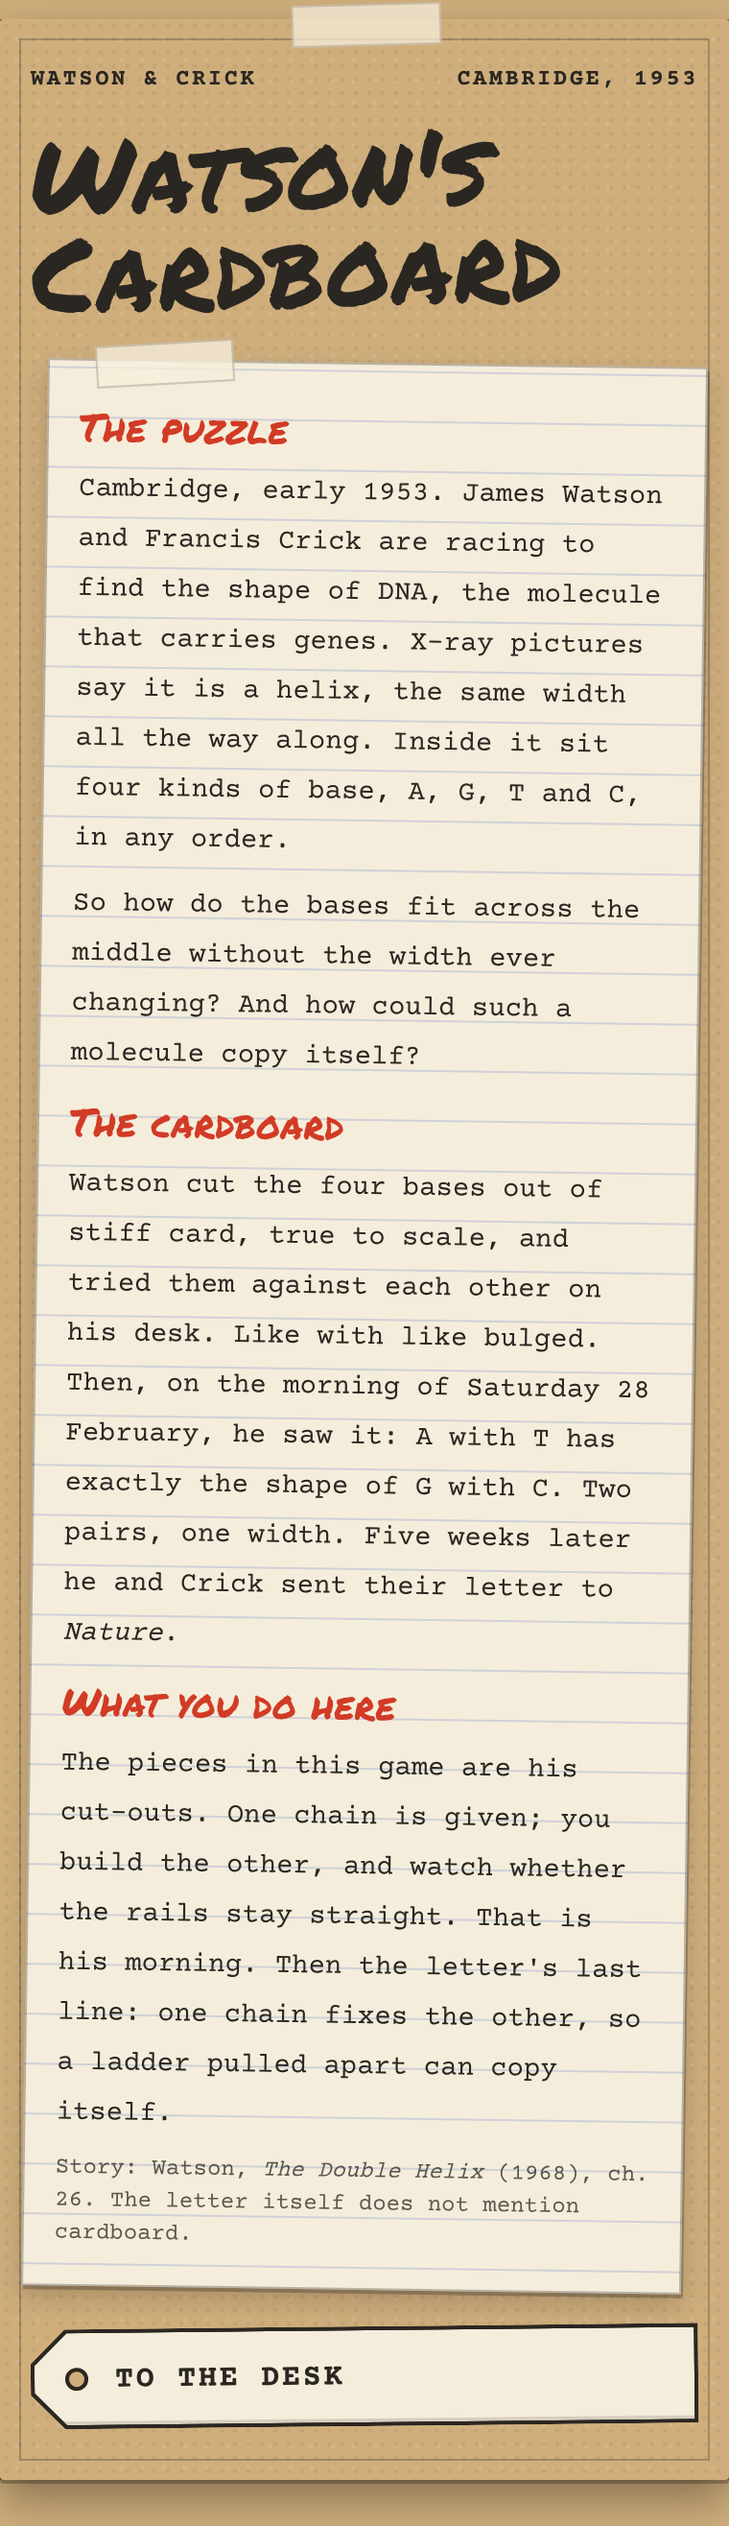
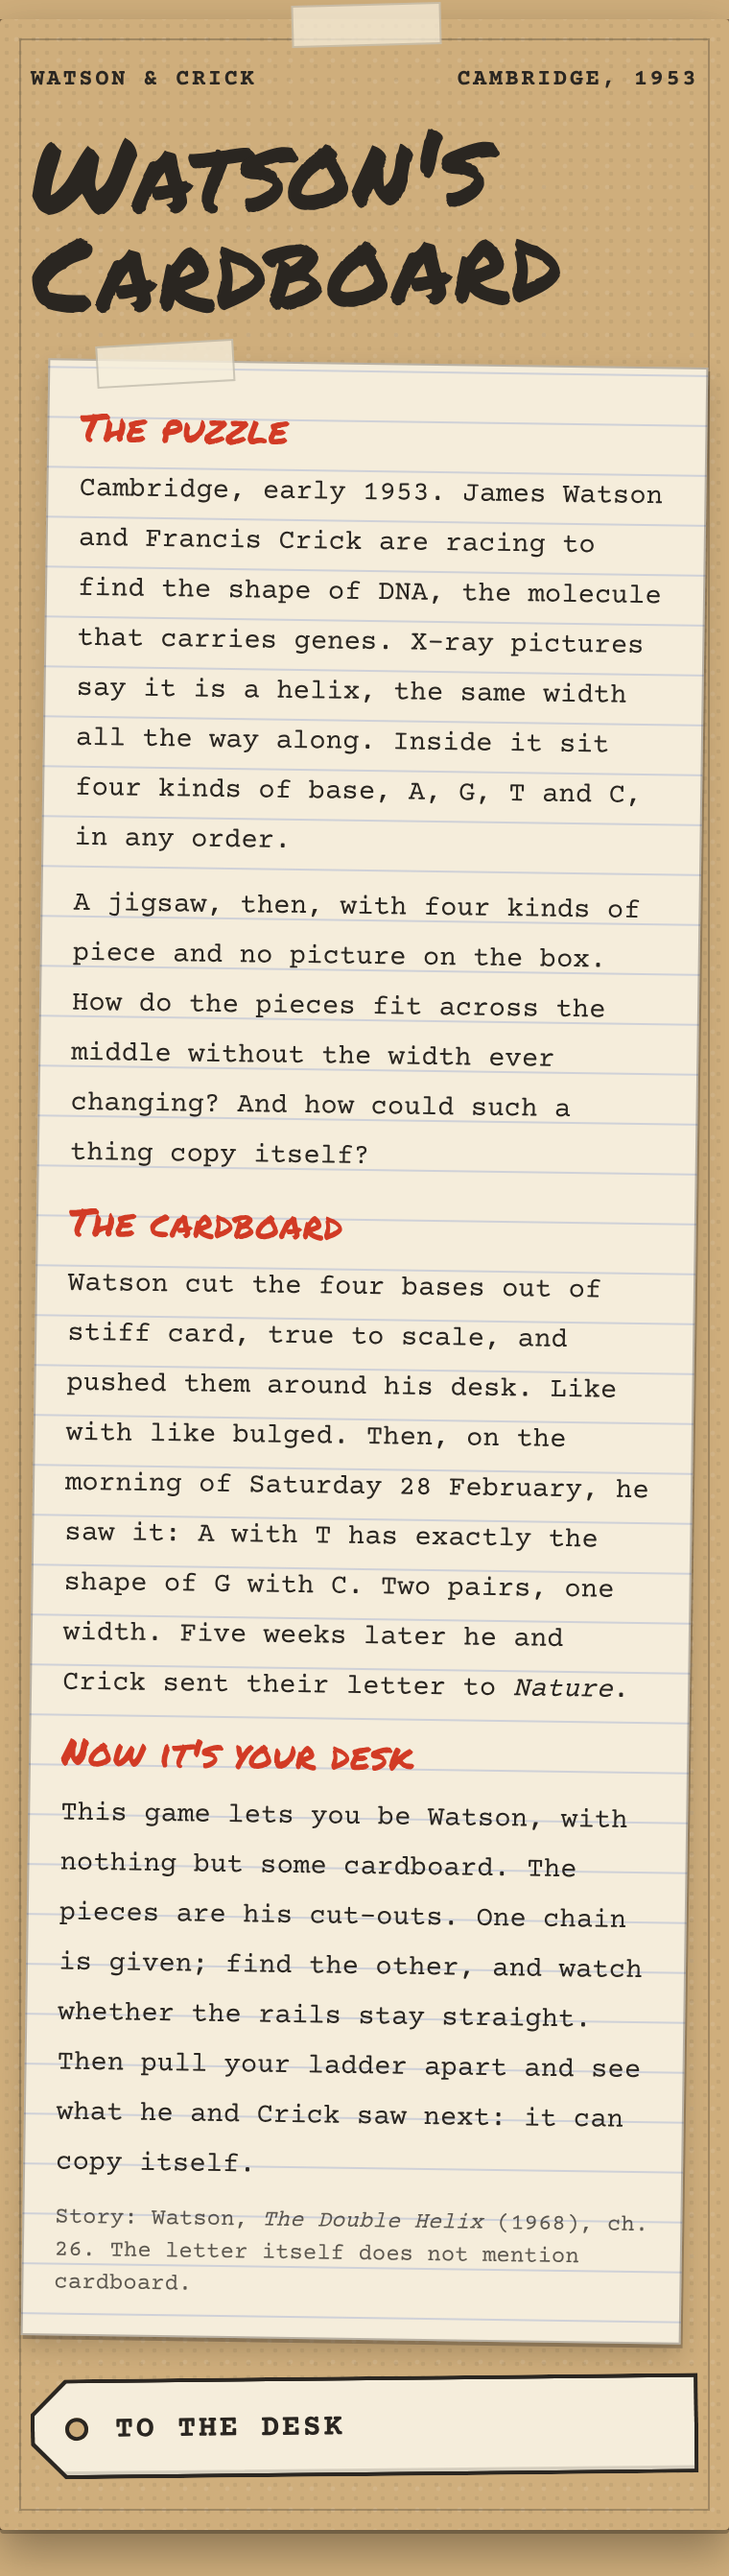
Watson's Cardboard: the welcome card as a jigsaw, and now it's your desk
Claude-Session: https://claude.ai/code/session_018niUhx9jvreD1GNLSnz6uQ

Changed region(s): [[0.0303, 0.0312, 0.9684, 0.9658], [0.8474, 0.8412, 0.8776, 0.8723]]

diff --git a/dna/template.html b/dna/template.html
@@ -151,11 +151,11 @@ svg.lad { display: block; width: 100%; height: auto; touch-action: manipulation;
     <div class="story">
       <h3>The puzzle</h3>
       <p>Cambridge, early 1953. James Watson and Francis Crick are racing to find the shape of DNA, the molecule that carries genes. X-ray pictures say it is a helix, the same width all the way along. Inside it sit four kinds of base, A, G, T and C, in any order.</p>
-      <p>So how do the bases fit across the middle without the width ever changing? And how could such a molecule copy itself?</p>
+      <p>A jigsaw, then, with four kinds of piece and no picture on the box. How do the pieces fit across the middle without the width ever changing? And how could such a thing copy itself?</p>
       <h3>The cardboard</h3>
-      <p>Watson cut the four bases out of stiff card, true to scale, and tried them against each other on his desk. Like with like bulged. Then, on the morning of Saturday 28 February, he saw it: A with T has exactly the shape of G with C. Two pairs, one width. Five weeks later he and Crick sent their letter to <i>Nature</i>.</p>
-      <h3>What you do here</h3>
-      <p>The pieces in this game are his cut-outs. One chain is given; you build the other, and watch whether the rails stay straight. That is his morning. Then the letter's last line: one chain fixes the other, so a ladder pulled apart can copy itself.</p>
+      <p>Watson cut the four bases out of stiff card, true to scale, and pushed them around his desk. Like with like bulged. Then, on the morning of Saturday 28 February, he saw it: A with T has exactly the shape of G with C. Two pairs, one width. Five weeks later he and Crick sent their letter to <i>Nature</i>.</p>
+      <h3>Now it's your desk</h3>
+      <p>This game lets you be Watson, with nothing but some cardboard. The pieces are his cut-outs. One chain is given; find the other, and watch whether the rails stay straight. Then pull your ladder apart and see what he and Crick saw next: it can copy itself.</p>
       <p class="src">Story: Watson, <i>The Double Helix</i> (1968), ch. 26. The letter itself does not mention cardboard.</p>
     </div>
     <button class="tag" id="b-desk"><span>To the desk</span></button>

diff --git a/dna/watsons-cardboard.html b/dna/watsons-cardboard.html
@@ -151,11 +151,11 @@ svg.lad { display: block; width: 100%; height: auto; touch-action: manipulation;
     <div class="story">
       <h3>The puzzle</h3>
       <p>Cambridge, early 1953. James Watson and Francis Crick are racing to find the shape of DNA, the molecule that carries genes. X-ray pictures say it is a helix, the same width all the way along. Inside it sit four kinds of base, A, G, T and C, in any order.</p>
-      <p>So how do the bases fit across the middle without the width ever changing? And how could such a molecule copy itself?</p>
+      <p>A jigsaw, then, with four kinds of piece and no picture on the box. How do the pieces fit across the middle without the width ever changing? And how could such a thing copy itself?</p>
       <h3>The cardboard</h3>
-      <p>Watson cut the four bases out of stiff card, true to scale, and tried them against each other on his desk. Like with like bulged. Then, on the morning of Saturday 28 February, he saw it: A with T has exactly the shape of G with C. Two pairs, one width. Five weeks later he and Crick sent their letter to <i>Nature</i>.</p>
-      <h3>What you do here</h3>
-      <p>The pieces in this game are his cut-outs. One chain is given; you build the other, and watch whether the rails stay straight. That is his morning. Then the letter's last line: one chain fixes the other, so a ladder pulled apart can copy itself.</p>
+      <p>Watson cut the four bases out of stiff card, true to scale, and pushed them around his desk. Like with like bulged. Then, on the morning of Saturday 28 February, he saw it: A with T has exactly the shape of G with C. Two pairs, one width. Five weeks later he and Crick sent their letter to <i>Nature</i>.</p>
+      <h3>Now it's your desk</h3>
+      <p>This game lets you be Watson, with nothing but some cardboard. The pieces are his cut-outs. One chain is given; find the other, and watch whether the rails stay straight. Then pull your ladder apart and see what he and Crick saw next: it can copy itself.</p>
       <p class="src">Story: Watson, <i>The Double Helix</i> (1968), ch. 26. The letter itself does not mention cardboard.</p>
     </div>
     <button class="tag" id="b-desk"><span>To the desk</span></button>

diff --git a/dna/memo.md b/dna/memo.md
@@ -209,3 +209,5 @@ The start screen now carries the story as an index card taped to the sheet, belo
 Renamed Watson's Cardboard (the name of the detour, now on the first build's play), with `watsons-cardboard.html` the game and `the-other-chain.html` redirecting to it. The story card moved off the start screen onto a welcome screen of its own, before the desk: title, the card, TO THE DESK. Steffen asked for the story before the game, which knowingly sets aside SKILL.md's 'nothing longer than two lines before the first press'. About's section is now The cardboard, and it explains the aim's phrase 'the other chain' from the letter.
 
 The welcome card rewritten around what they were after: The puzzle (a helix of one width, four bases in any order inside: how do they fit across without the width changing, and how could it copy itself?), The cardboard (cut to scale and tried on the desk; like with like bulged; 28 February, two pairs, one width), What you do here. The metal kit and Donohue are gone from the card.
+
+The welcome card made personal: the puzzle is a jigsaw with four kinds of piece and no picture on the box; the last section, Now it's your desk, says the game lets you be Watson with nothing but some cardboard.
